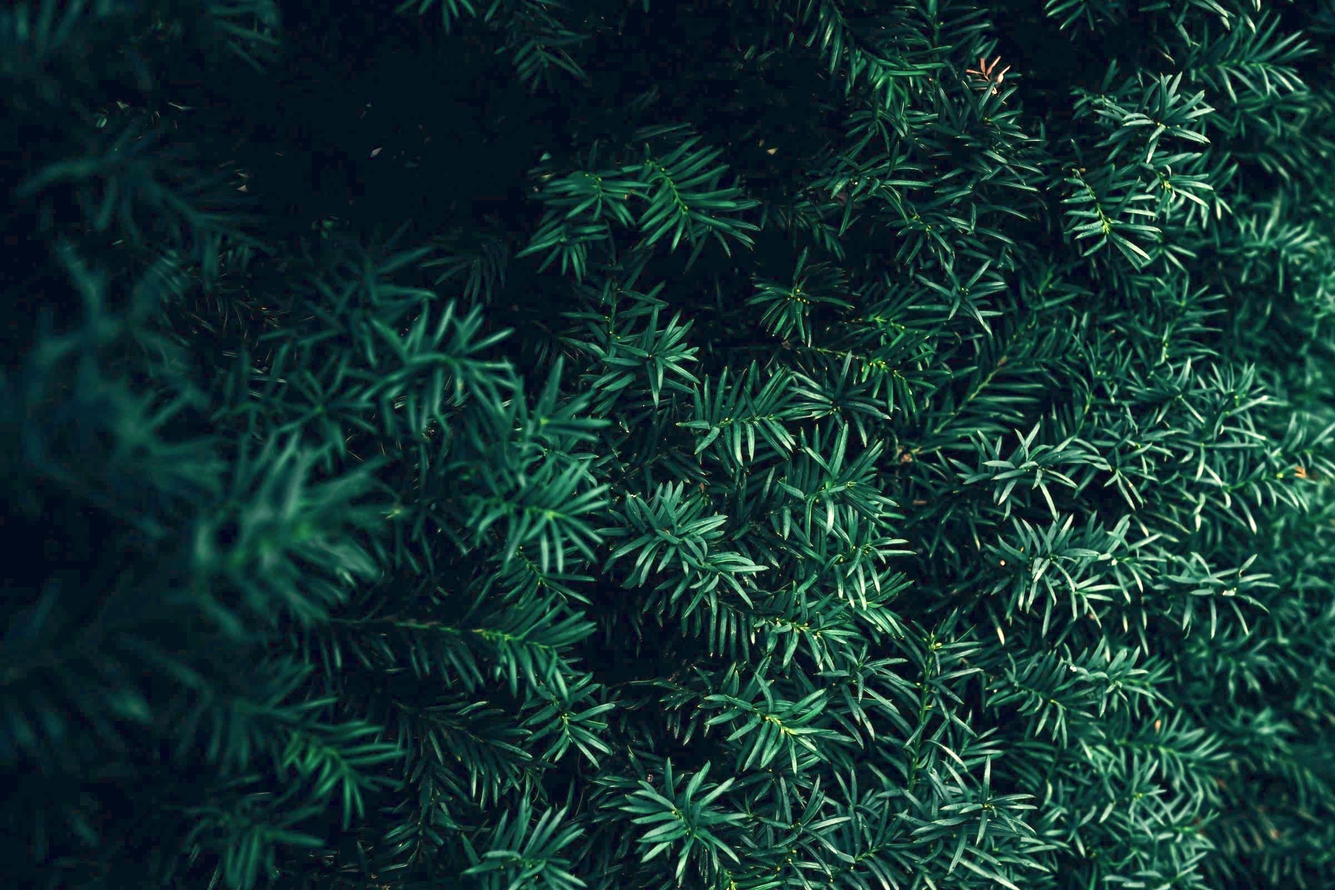
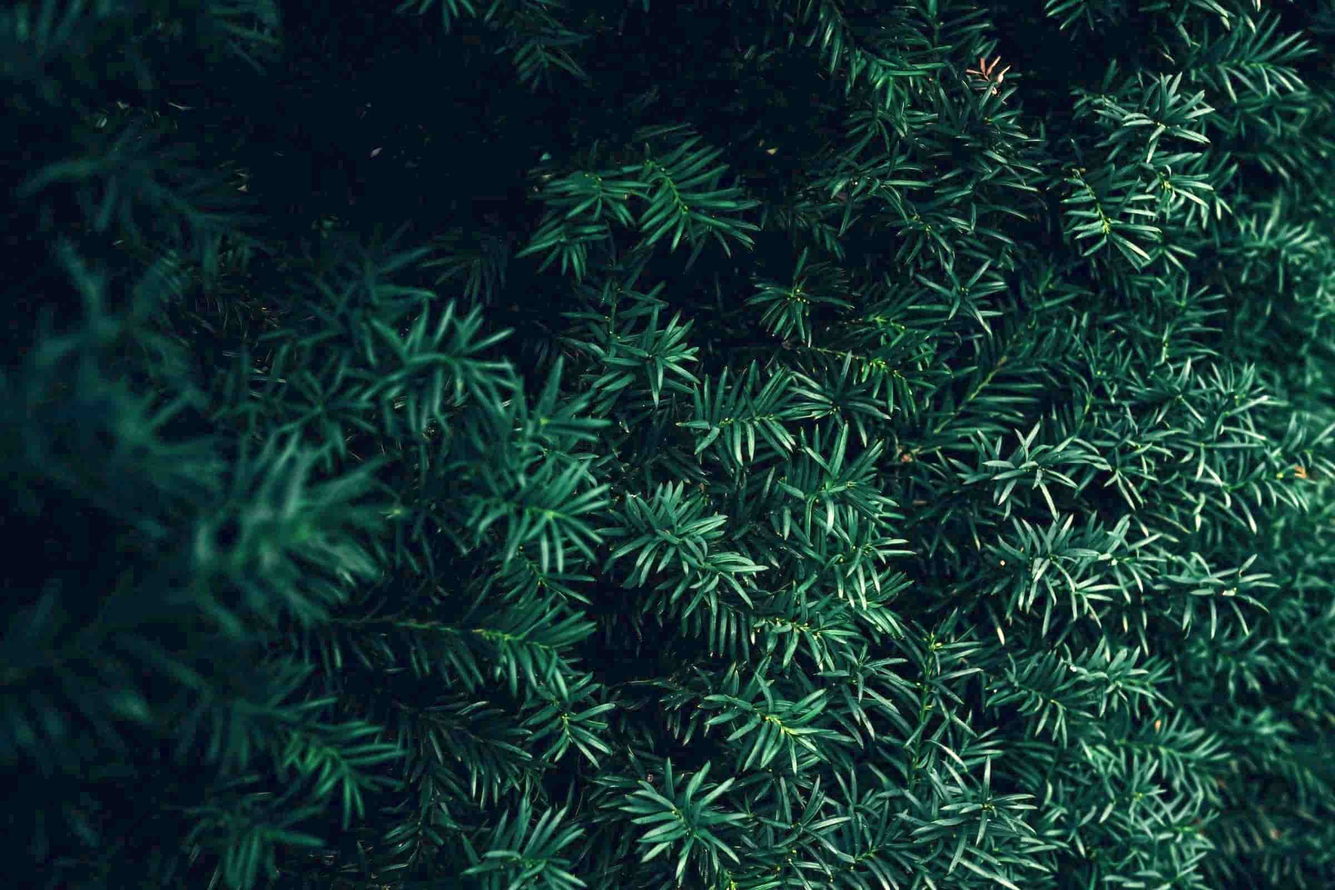
replace images q1 compressed size

diff --git a/quiz1.html b/quiz1.html
@@ -16,6 +16,9 @@
   <link rel="icon" type="image/png" sizes="16x16" href="assets/favicon/favicon-16x16.png">
   <!-- Stylesheet -->
   <link rel="stylesheet" href="assets/css/style.css">
+
+  <link rel="preconnect" href="https://lemmenaid.github.io/Irish-tree-trivia/quiz1.html">
+
 </head>
 
 <body>
